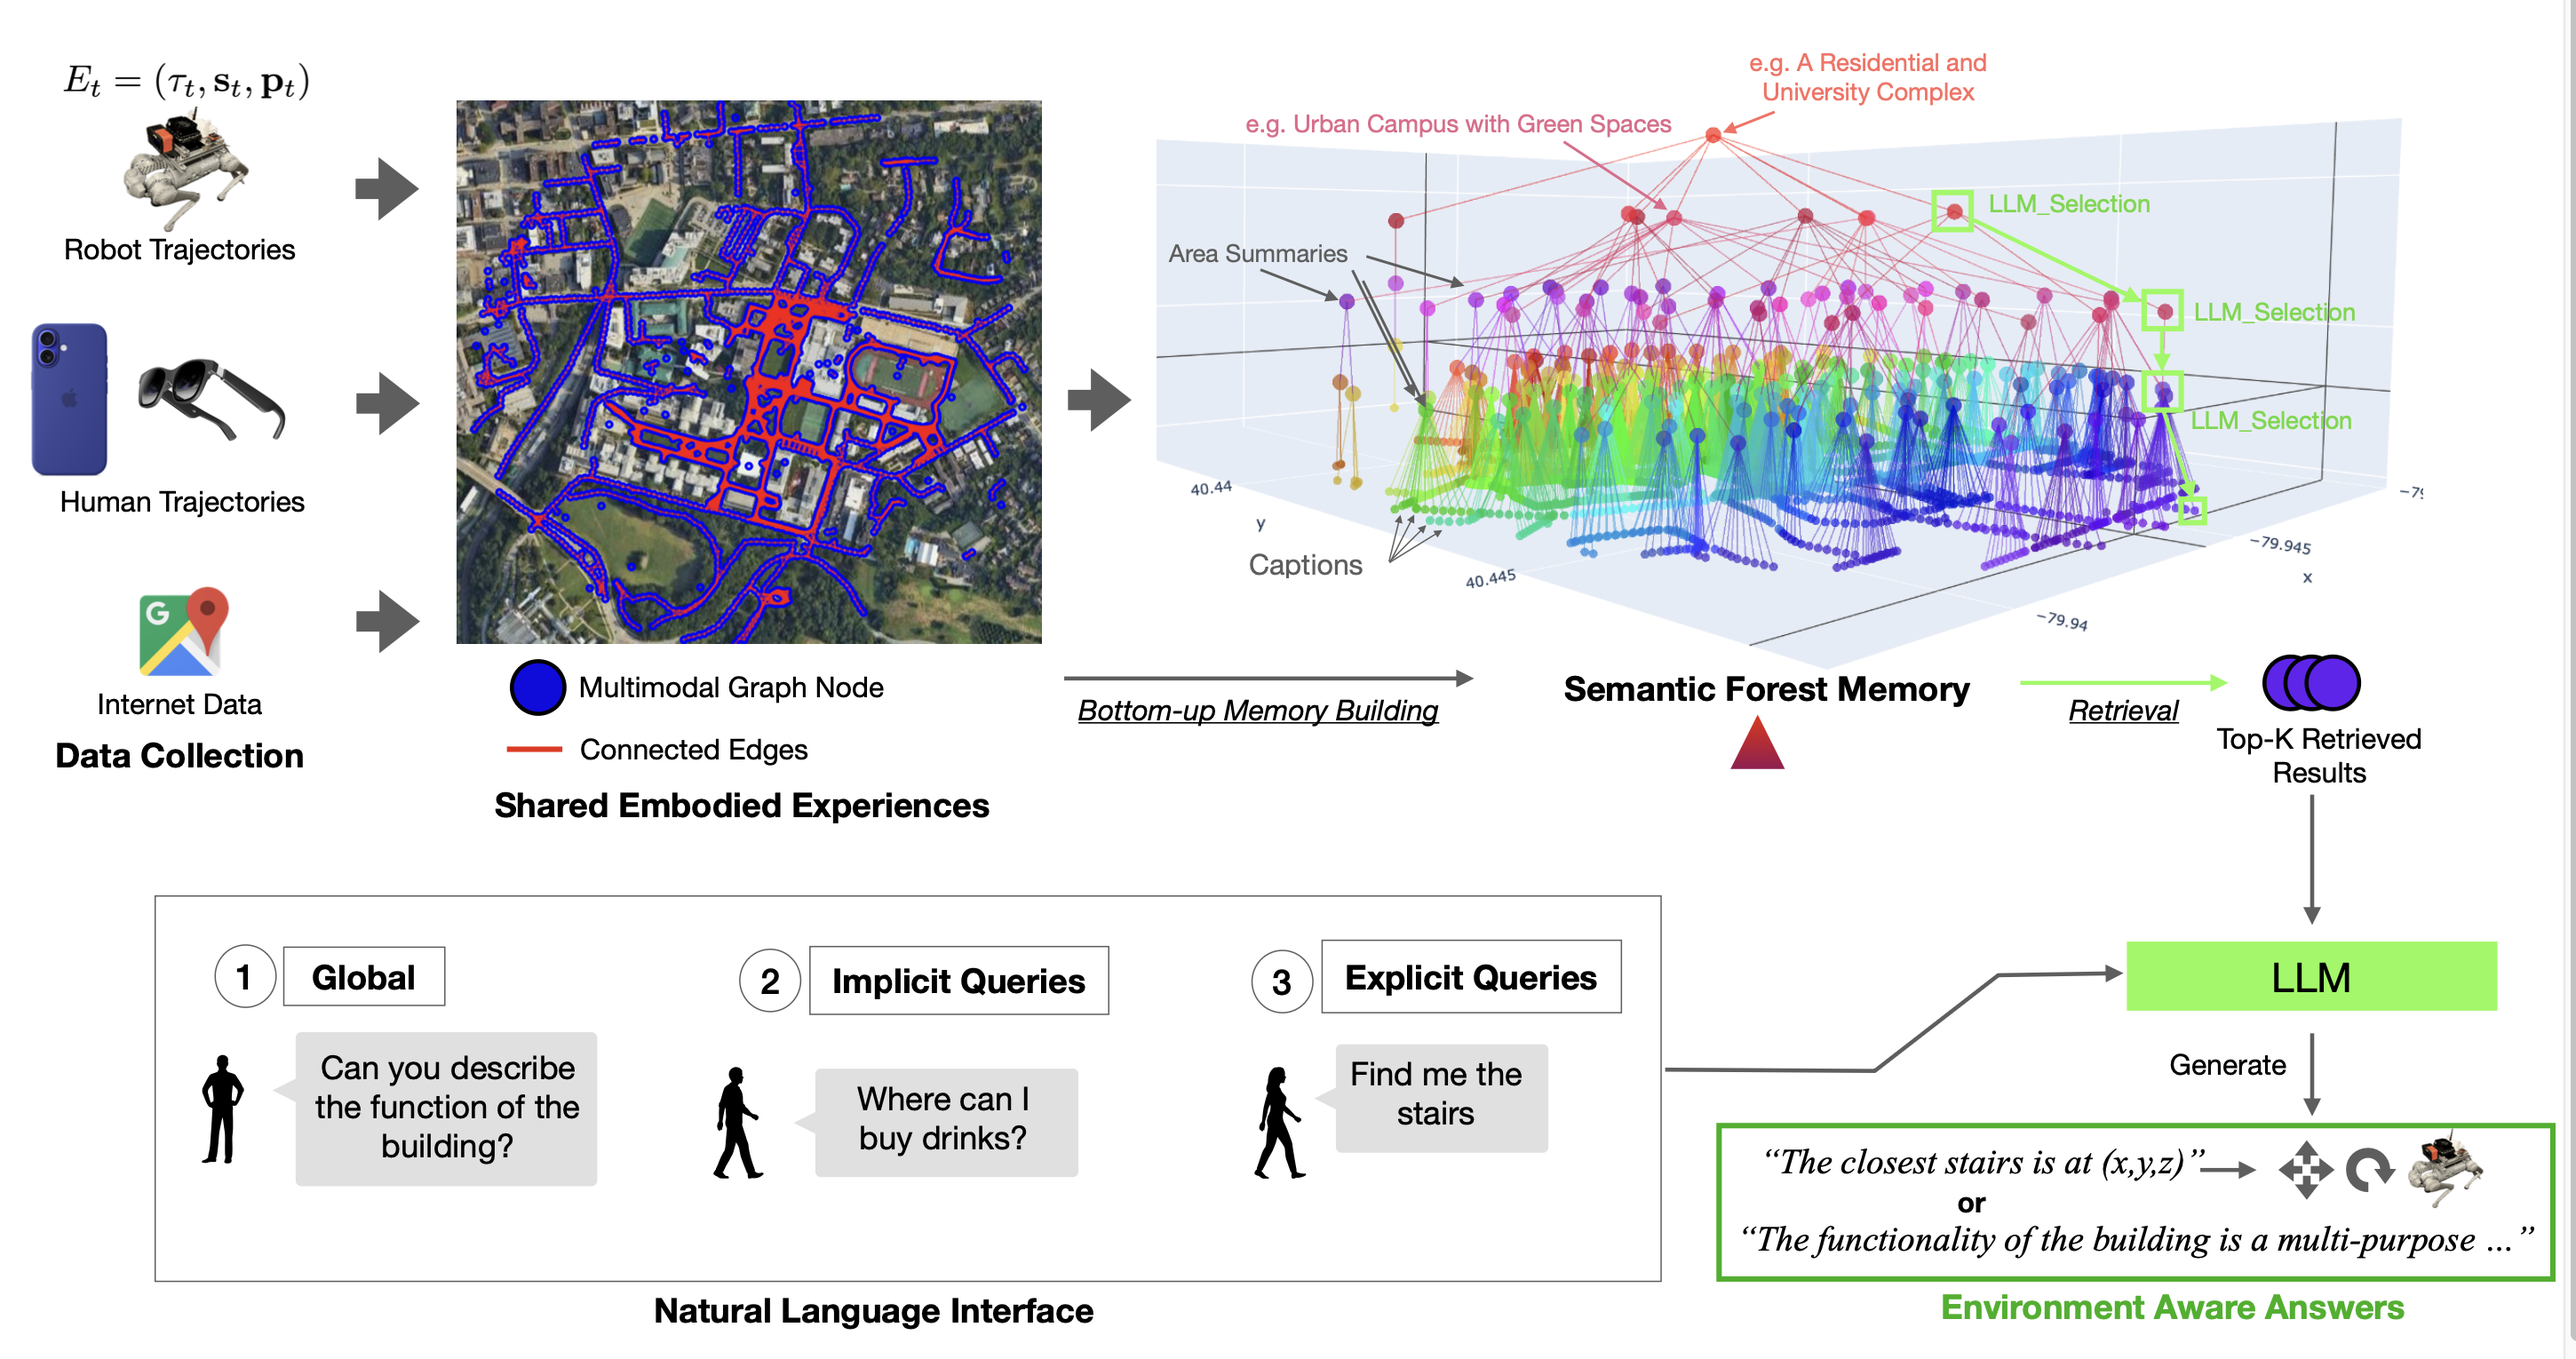
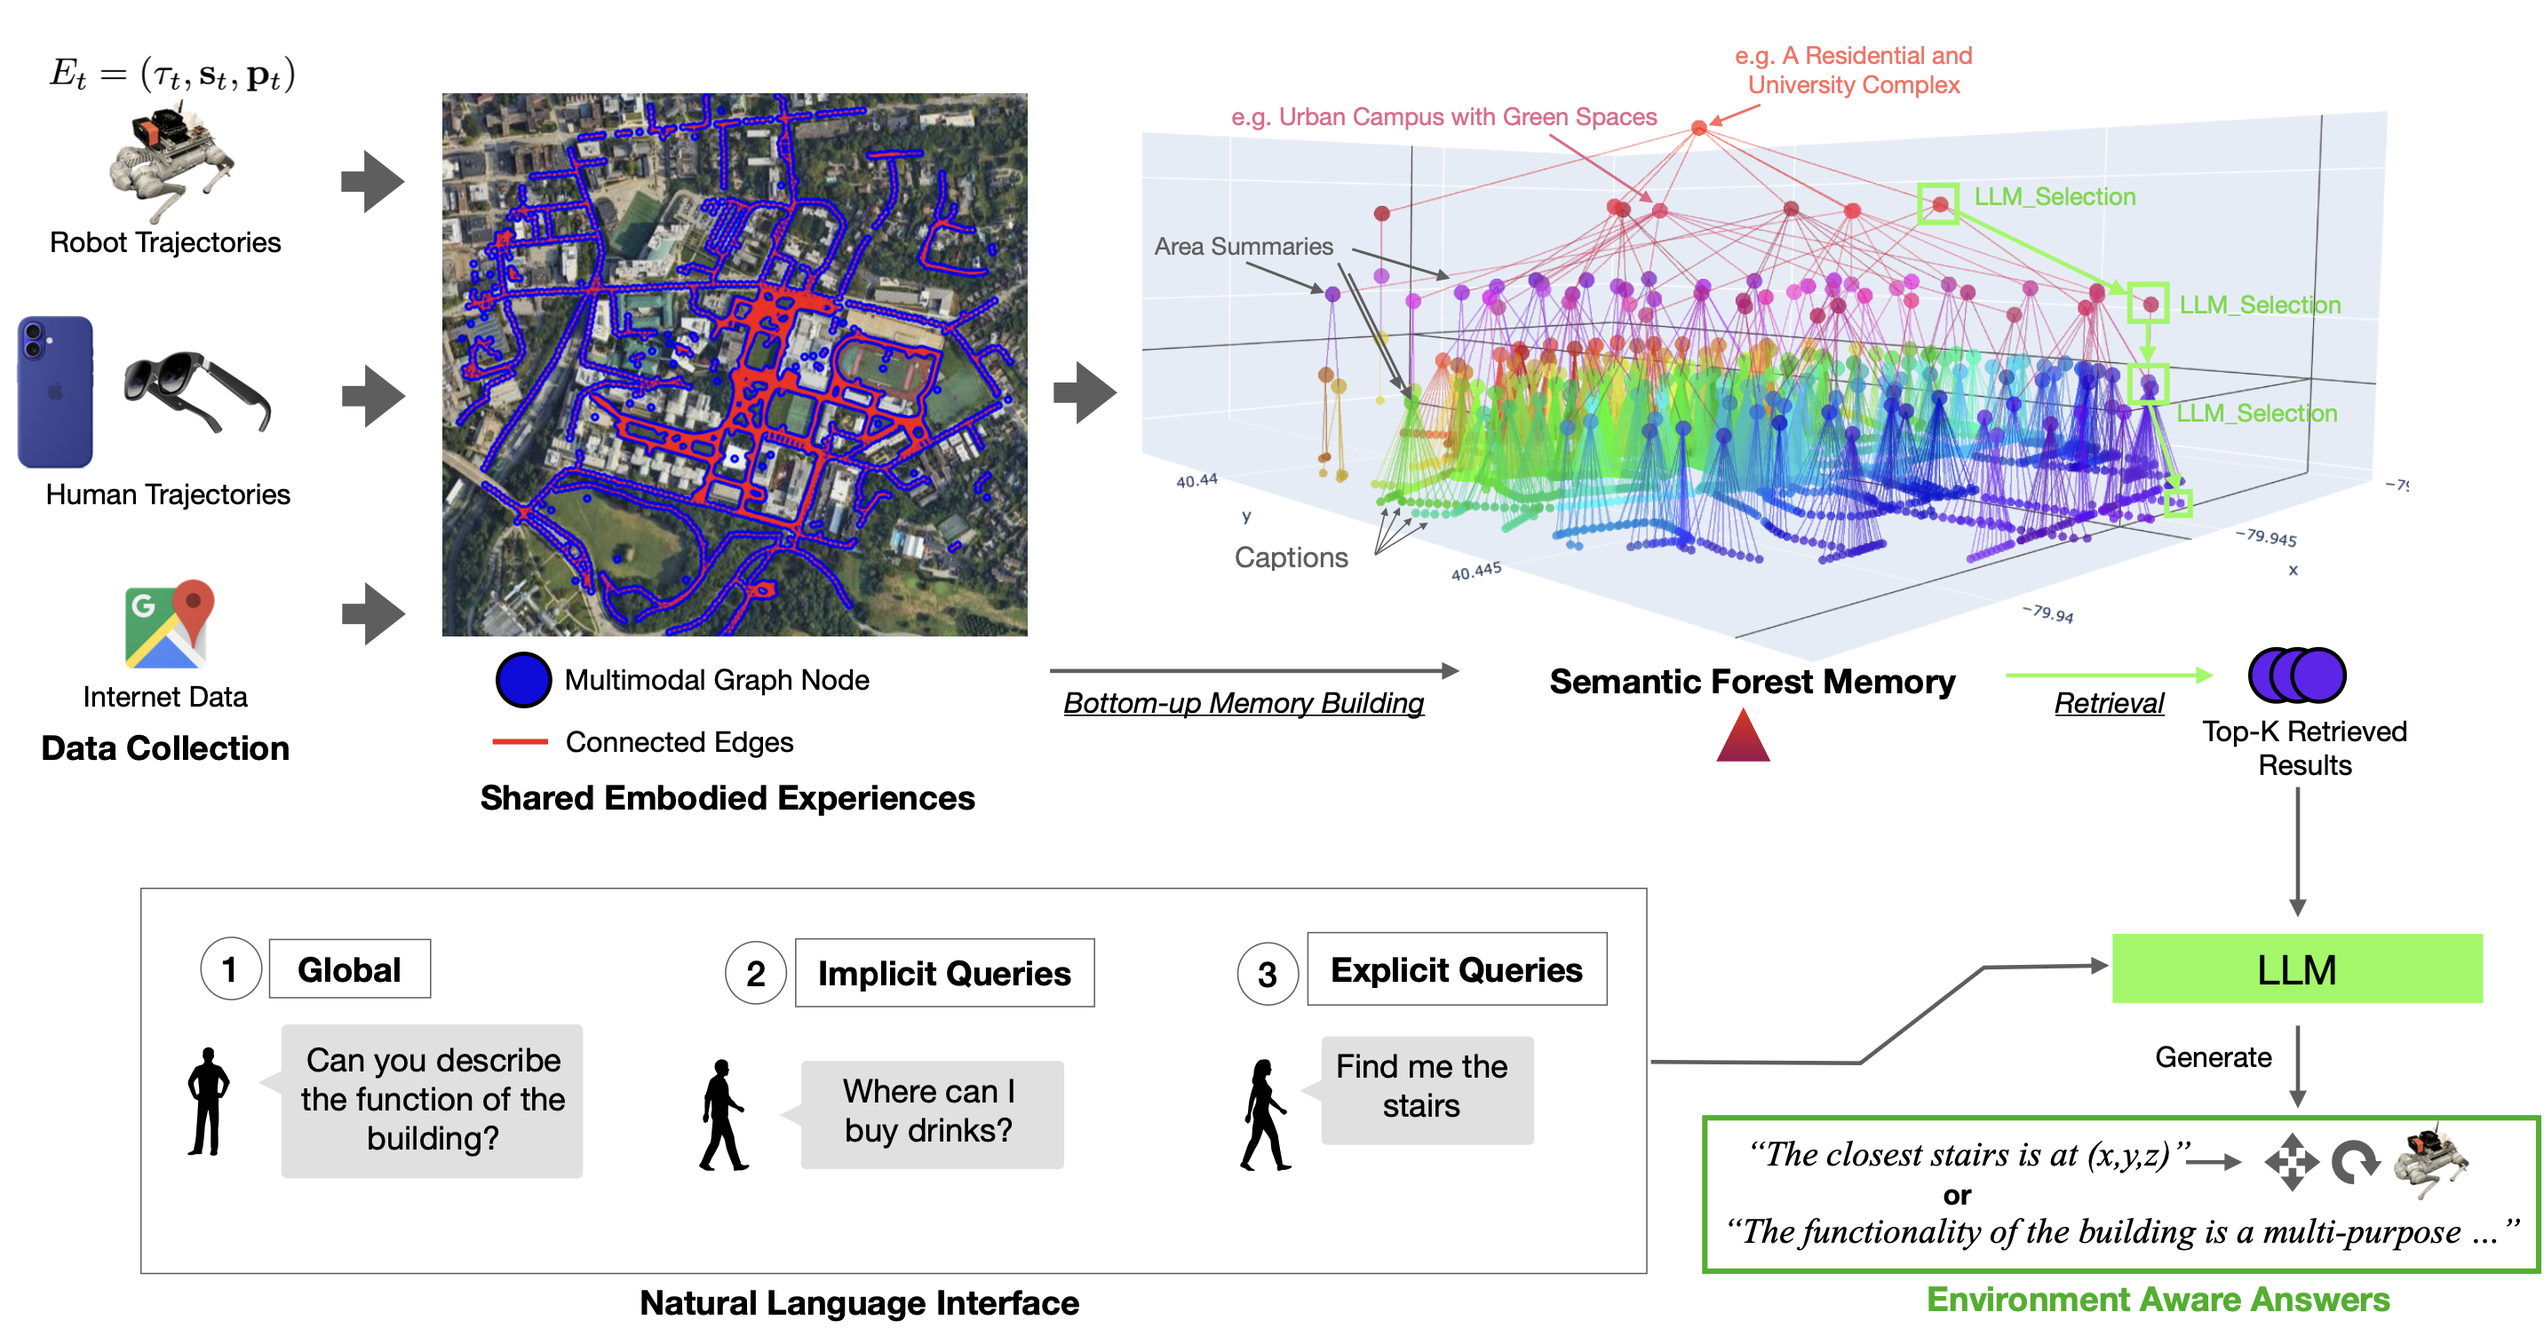
1

diff --git a/index.html b/index.html
@@ -173,10 +173,10 @@
           </tr>
 
         <td align=center width=200px>
-          <center><span style="font-size:22px"><a href="" target="_blank">Yue Yang</span></center></td>
+          <center><span style="font-size:22px">Yue Yang</span></center></td>
           </tr>
         <td align=center width=200px>
-        <center><span style="font-size:22px"><a href="https://tyz1030.github.io/" target="_blank">Tianyi Zhang</span></center></td>
+        <center><span style="font-size:22px"><a href="https://tyz1030.github.io/" target="_blank">Tianyi Zhang</a></span></center></td>
         </tr>
 
         <tr>
